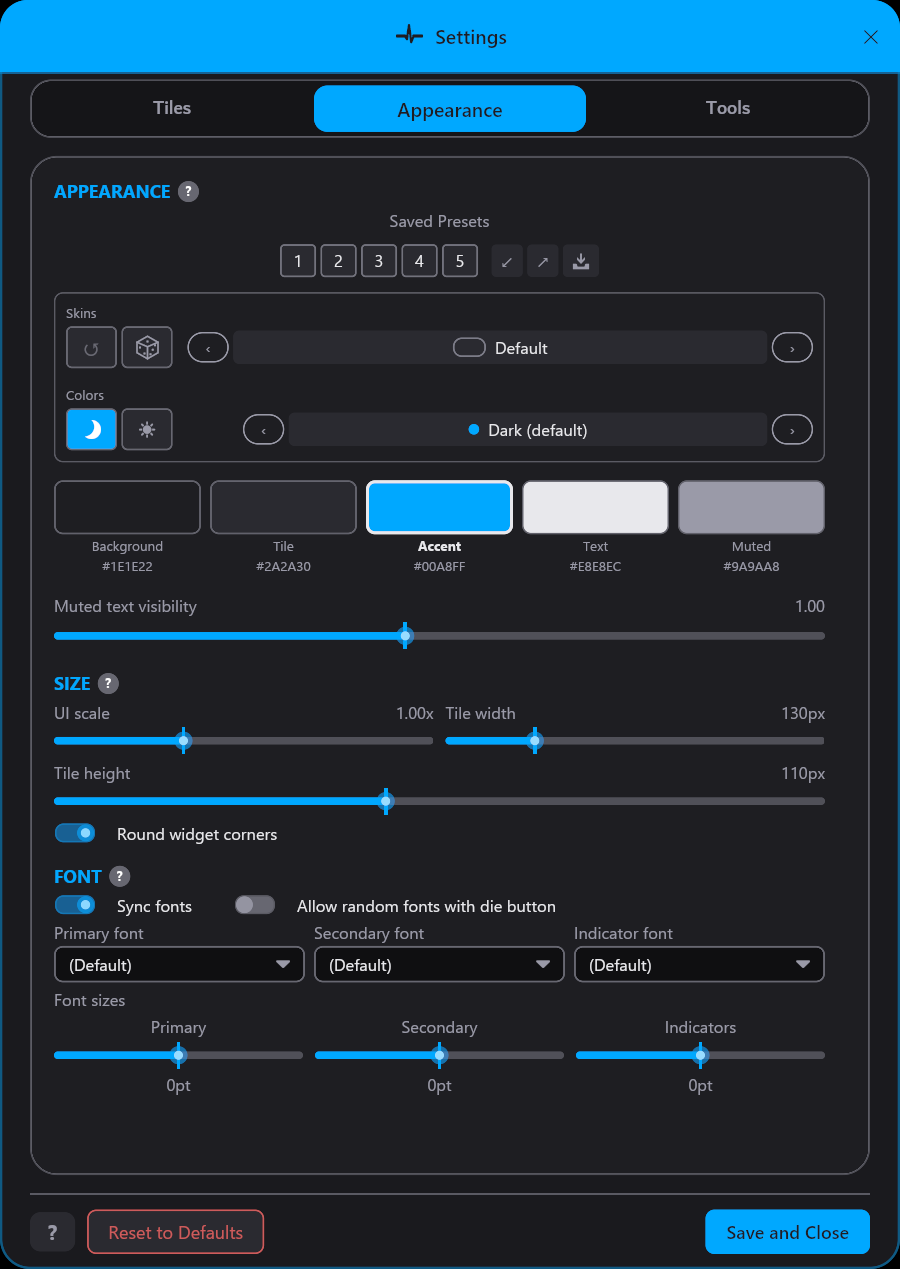
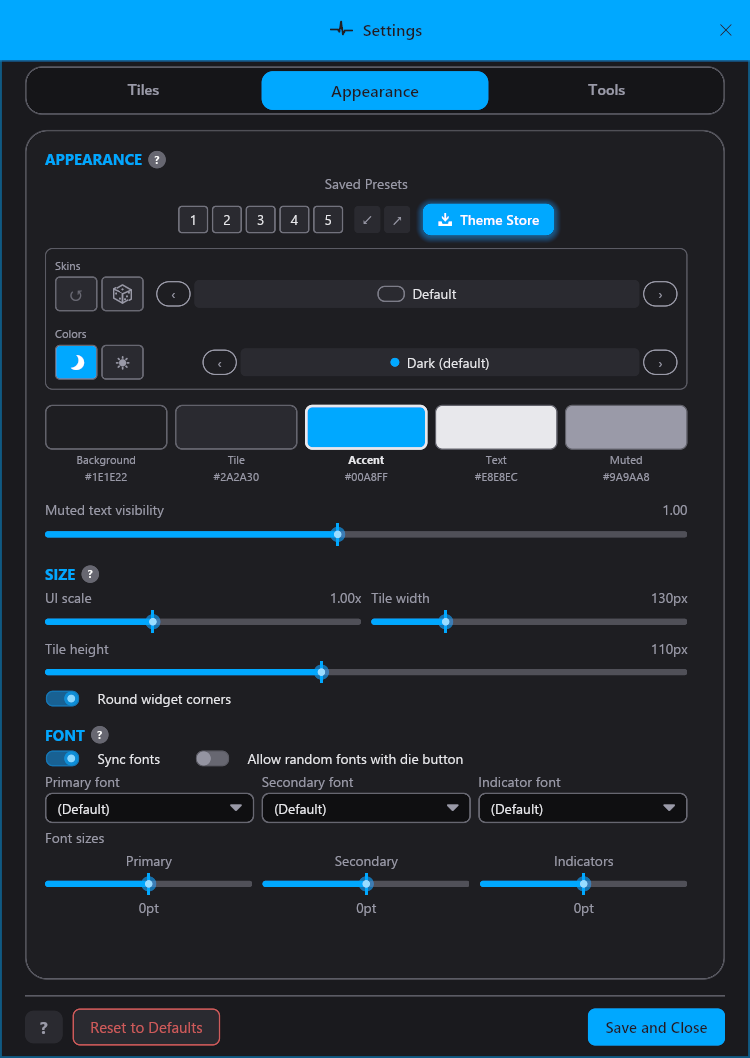
appearance: prominent Theme Store button + 5 new skins
- The Theme Store opener is now a labeled accent button with a soft glow (was a
  bare icon lost among the import/export icons) so the downloadable-content hook
  is discoverable.
- Add 5 built-in skins designed with the Grok CLI, spanning the range: Ember
  (soft glowy pill), Slate (clean flat), Prism (glossy accent capsule), Monolith
  (architectural frame + accent rails), Plasma (electric glow). Pure SkinStyle
  data; appear in the skin picker with distinct previews.
- Refresh docs/images/settings-appearance.png for the new button.

diff --git a/crates/flux-widget/src/style.rs b/crates/flux-widget/src/style.rs
@@ -685,10 +685,11 @@ impl SkinStyle {
     }
 }
 
-pub const SKIN_NAMES: [&str; 16] = [
+pub const SKIN_NAMES: [&str; 21] = [
     "Default","Minimal","Sharp","Glassmorphism","Retro",
     "Terminal","Holographic","Brutalist","Carbon","Neon",
     "Frosted","Cyberpunk","Paper","Ink","Aurora","Compact",
+    "Ember","Slate","Prism","Monolith","Plasma",
 ];
 
 /// Resolve a skin by name: user-installed skins first, then the built-ins.
@@ -818,6 +819,47 @@ fn builtin_skin_style(name: &str) -> SkinStyle {
             border_src: BorderSource::Accent, border_alpha: 0.6,
             accent_bar: 0.0, header_bar: 0.0, sheen: 0.0,
             glow: 0.35, gradient: 0.0,
+        },
+        // ── Added 2026-06-18 (designed with Grok) ──
+        // Soft pill tiles, deep accent gradient + warm ambient bloom.
+        "Ember" => SkinStyle {
+            tile_radius: 18.0, widget_radius: 24.0,
+            tile_border: 0.0, widget_border: 0.0, tile_spacing: 10.0,
+            border_src: BorderSource::Transparent, border_alpha: 0.0,
+            accent_bar: 0.0, header_bar: 0.0, sheen: 0.35,
+            glow: 0.55, gradient: 0.85,
+        },
+        // Restrained flat panels, whisper-thin muted borders — calm utility chrome.
+        "Slate" => SkinStyle {
+            tile_radius: 6.0, widget_radius: 10.0,
+            tile_border: 0.5, widget_border: 1.0, tile_spacing: 3.0,
+            border_src: BorderSource::Muted, border_alpha: 0.4,
+            accent_bar: 0.0, header_bar: 0.0, sheen: 0.0,
+            glow: 0.0, gradient: 0.08,
+        },
+        // Glossy capsules with accent top stripes + a prismatic colour wash.
+        "Prism" => SkinStyle {
+            tile_radius: 20.0, widget_radius: 28.0,
+            tile_border: 1.0, widget_border: 0.0, tile_spacing: 12.0,
+            border_src: BorderSource::Accent, border_alpha: 0.5,
+            accent_bar: 0.0, header_bar: 3.0, sheen: 0.6,
+            glow: 0.4, gradient: 0.65,
+        },
+        // Heavy outer frame + thick left accent rails — architectural slabs.
+        "Monolith" => SkinStyle {
+            tile_radius: 2.0, widget_radius: 4.0,
+            tile_border: 0.0, widget_border: 4.0, tile_spacing: 16.0,
+            border_src: BorderSource::Text, border_alpha: 0.9,
+            accent_bar: 6.0, header_bar: 0.0, sheen: 0.0,
+            glow: 0.0, gradient: 0.0,
+        },
+        // Electric accent outlines, corner glow + cross accent stripes — sci-fi energy.
+        "Plasma" => SkinStyle {
+            tile_radius: 0.0, widget_radius: 6.0,
+            tile_border: 2.0, widget_border: 1.0, tile_spacing: 5.0,
+            border_src: BorderSource::Accent, border_alpha: 1.0,
+            accent_bar: 2.0, header_bar: 2.0, sheen: 0.25,
+            glow: 0.95, gradient: 0.45,
         },
         _ => builtin_skin_style("Default"),
     }

diff --git a/crates/flux-widget/src/settings_panel.rs b/crates/flux-widget/src/settings_panel.rs
@@ -863,13 +863,37 @@ pub fn view<'a>(
             tip_box("Export the current appearance as a share code to the clipboard.", p), TipPos::FollowCursor,
         )
     );
-    saved_row = saved_row.push(Space::with_width(3));
+    // The Theme Store is the discoverability hook for downloadable content, so it
+    // gets a prominent labeled accent button (with a soft glow) instead of blending
+    // in with the small import/export icons.
+    saved_row = saved_row.push(Space::with_width(10));
     saved_row = saved_row.push(
         tooltip(
-            button(text("\u{1F4E5}").size(12).font(crate::style::ICONS).style(move |_| iced::widget::text::Style { color: Some(p.muted) }))
-                .padding([3, 6]).style(move |_,_| button::Style { background: Some(iced::Background::Color(p.tile)), border: Border { radius: 3.0.into(), ..Border::default() }, ..Default::default() })
+            button(
+                row![
+                    text("\u{1F4E5}").size(12).font(crate::style::ICONS)
+                        .style(move |_| iced::widget::text::Style { color: Some(iced::Color::WHITE) }),
+                    text("Theme Store").size(11)
+                        .font(iced::Font { weight: iced::font::Weight::Semibold, ..iced::Font::DEFAULT })
+                        .style(move |_| iced::widget::text::Style { color: Some(iced::Color::WHITE) }),
+                ].spacing(6).align_y(iced::Alignment::Center)
+            )
+                .padding([5, 12])
+                .style(move |_: &iced::Theme, st: button::Status| {
+                    let hover = matches!(st, button::Status::Hovered);
+                    button::Style {
+                        background: Some(iced::Background::Color(if hover { iced::Color { a: 0.9, ..p.accent } } else { p.accent })),
+                        border: Border { radius: 7.0.into(), ..Border::default() },
+                        text_color: iced::Color::WHITE,
+                        shadow: iced::Shadow {
+                            color: iced::Color { a: if hover { 0.55 } else { 0.4 }, ..p.accent },
+                            offset: iced::Vector::new(0.0, 1.0),
+                            blur_radius: if hover { 9.0 } else { 6.0 },
+                        },
+                    }
+                })
                 .on_press(Message::OpenThemeStore),
-            tip_box("Download more themes & skins from the Theme Store.", p), TipPos::FollowCursor,
+            tip_box("Browse & download themes and skins from the Theme Store.", p), TipPos::FollowCursor,
         )
     );
     if !appearance_status.is_empty() {